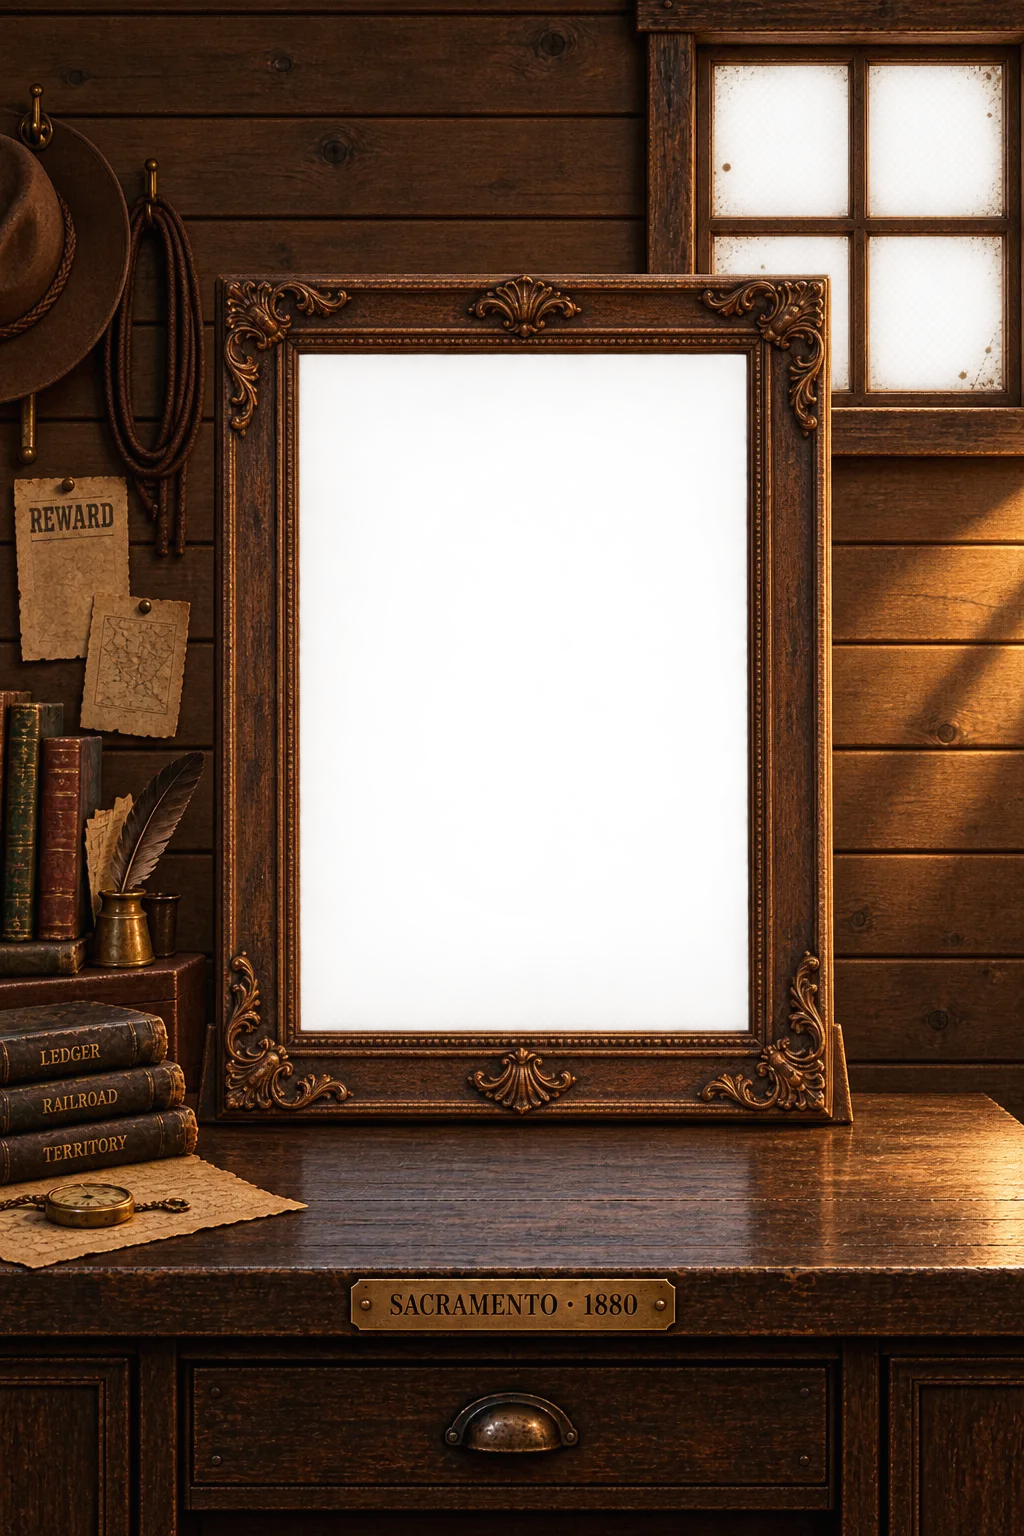
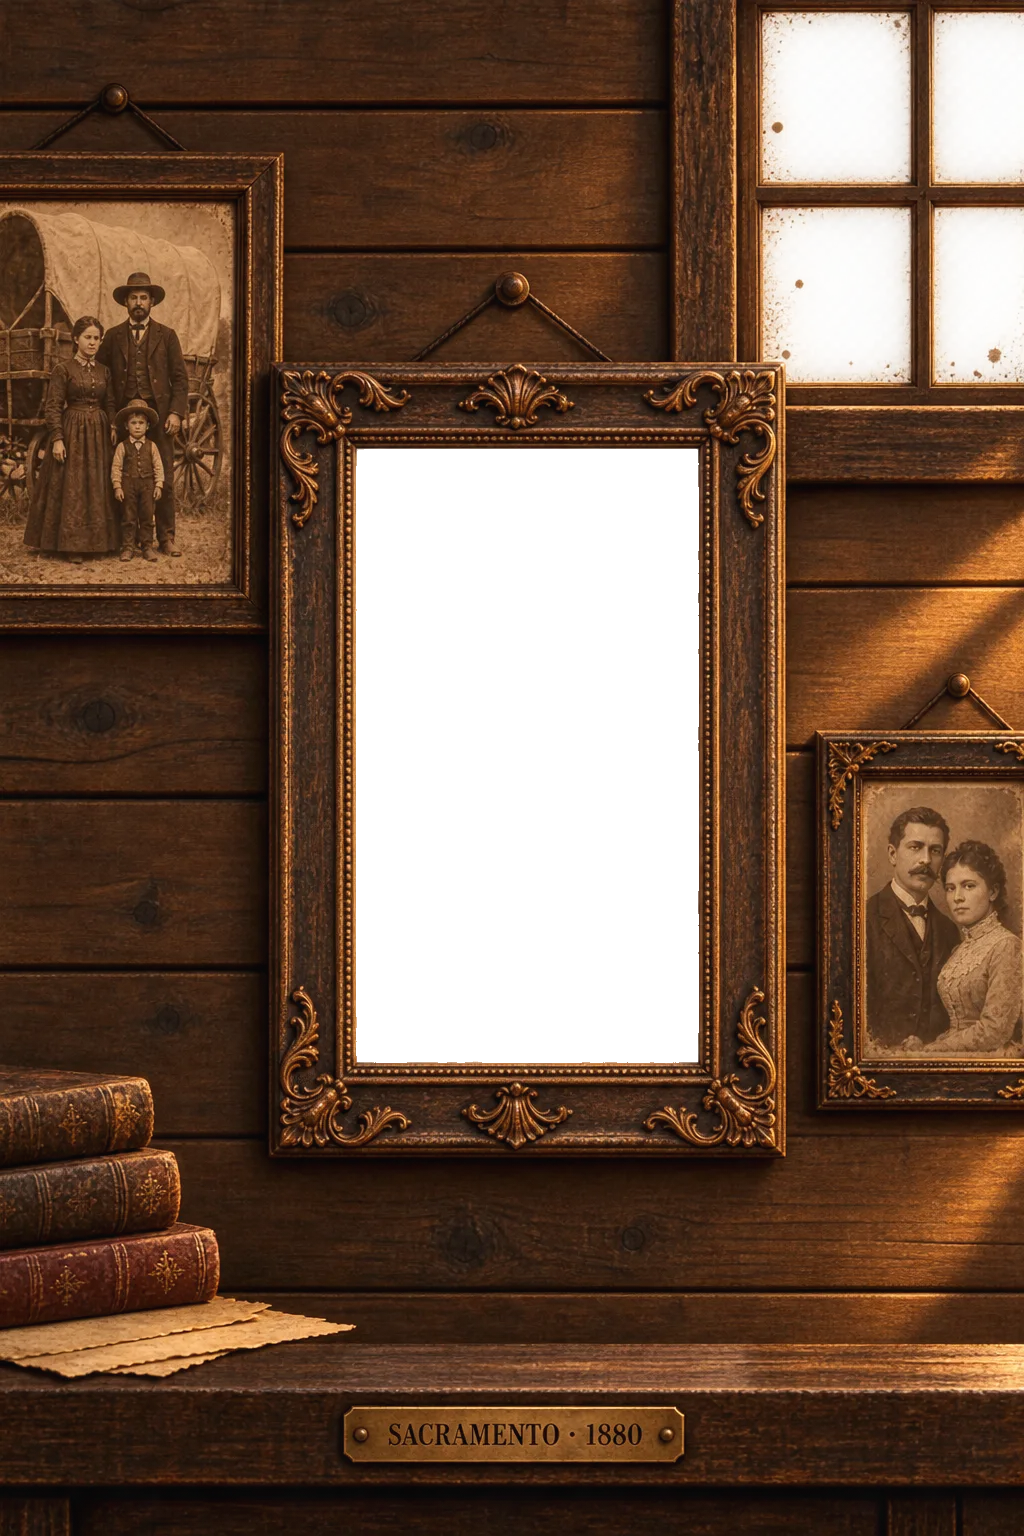
feat(escritorio): cena nova — moldura pendurada com vidro perfurado no alpha
Novo fundo com a moldura como protagonista absoluta e fotos sépias de
época na parede. A abertura veio com vidro leitoso semi-transparente
(alpha 60-150), que deixaria o retrato embaçado: perfuração digital via
sharp zera o alpha só dentro da abertura, preservando a madeira.
Coordenadas remedidas: moldura 34.4/28.8 (34.2×40.8), janela no canto
superior direito, papel do nome na parede esquerda, lamparina na
bancada à direita e placas de latão no rodapé sob a plaqueta.

diff --git a/components/character-creation/sacramento/EscritorioPreview.tsx b/components/character-creation/sacramento/EscritorioPreview.tsx
@@ -26,10 +26,10 @@ type Layer = { url: string; key: number };
  * a lamparina ganha chama viva e o papel pregado recebe nome e conceito.
  * Coordenadas em % da cena de 1024×1536 (medidas por varredura de alpha).
  */
-const MOLDURA = { left: "28.9%", top: "22.7%", width: "44.4%", height: "44.7%" } as const;
-const JANELA = { left: "61.4%", top: "3.7%", width: "36.8%", height: "26.8%" } as const;
-const LAMPARINA = { left: "71%", width: "27%", bottom: "17.5%" } as const;
-const PAPEL = { left: "72.5%", top: "31.5%", width: "26.5%" } as const;
+const MOLDURA = { left: "34.4%", top: "28.8%", width: "34.2%", height: "40.8%" } as const;
+const JANELA = { left: "67.6%", top: "0%", width: "32.4%", height: "32.6%" } as const;
+const LAMPARINA = { left: "71%", width: "24%", bottom: "11%" } as const;
+const PAPEL = { left: "2.5%", top: "42.5%", width: "22.5%" } as const;
 
 export function EscritorioPreview({
   imageUrl,
@@ -146,7 +146,7 @@ export function EscritorioPreview({
         <div aria-hidden className="luz-lamparina pointer-events-none absolute inset-0"
           style={{
             background:
-              "radial-gradient(42% 30% at 84% 68%, rgba(255,184,90,0.28), rgba(255,160,64,0.1) 45%, transparent 72%)",
+              "radial-gradient(42% 30% at 83% 80%, rgba(255,184,90,0.28), rgba(255,160,64,0.1) 45%, transparent 72%)",
             mixBlendMode: "screen",
           }} />
 
@@ -192,7 +192,7 @@ export function EscritorioPreview({
         {/* ── Camada 6: placas de latão com a ficha ── */}
         {stats && stats.length > 0 && (
           <div className="absolute flex items-stretch justify-center gap-[1.5%] px-[6%]"
-            style={{ left: 0, right: 0, bottom: "3.2%", height: "6.8%" }}>
+            style={{ left: 0, right: 0, bottom: "0.9%", height: "5.4%" }}>
             {stats.map((s) => (
               <div key={s.label}
                 className="flex min-w-0 flex-1 flex-col items-center justify-center rounded-[3px]"
